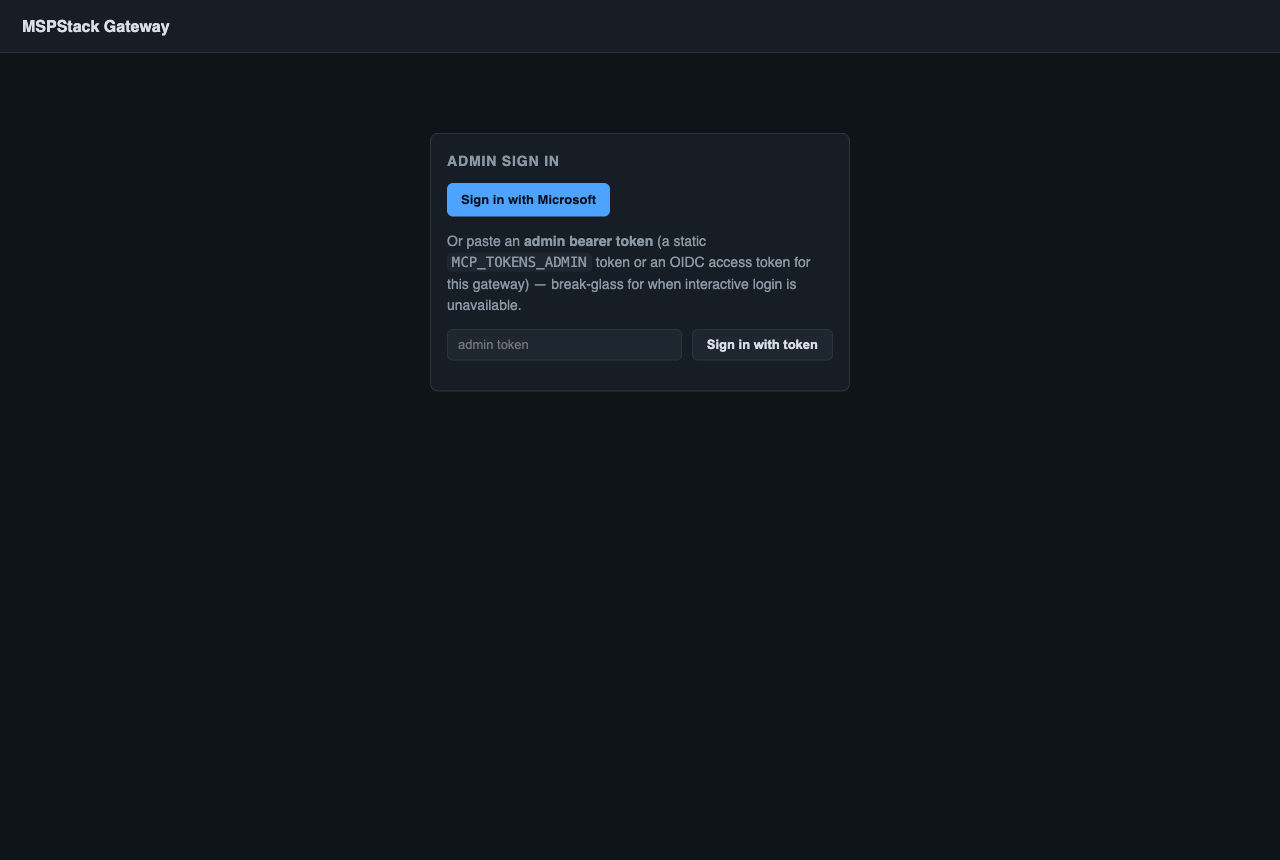
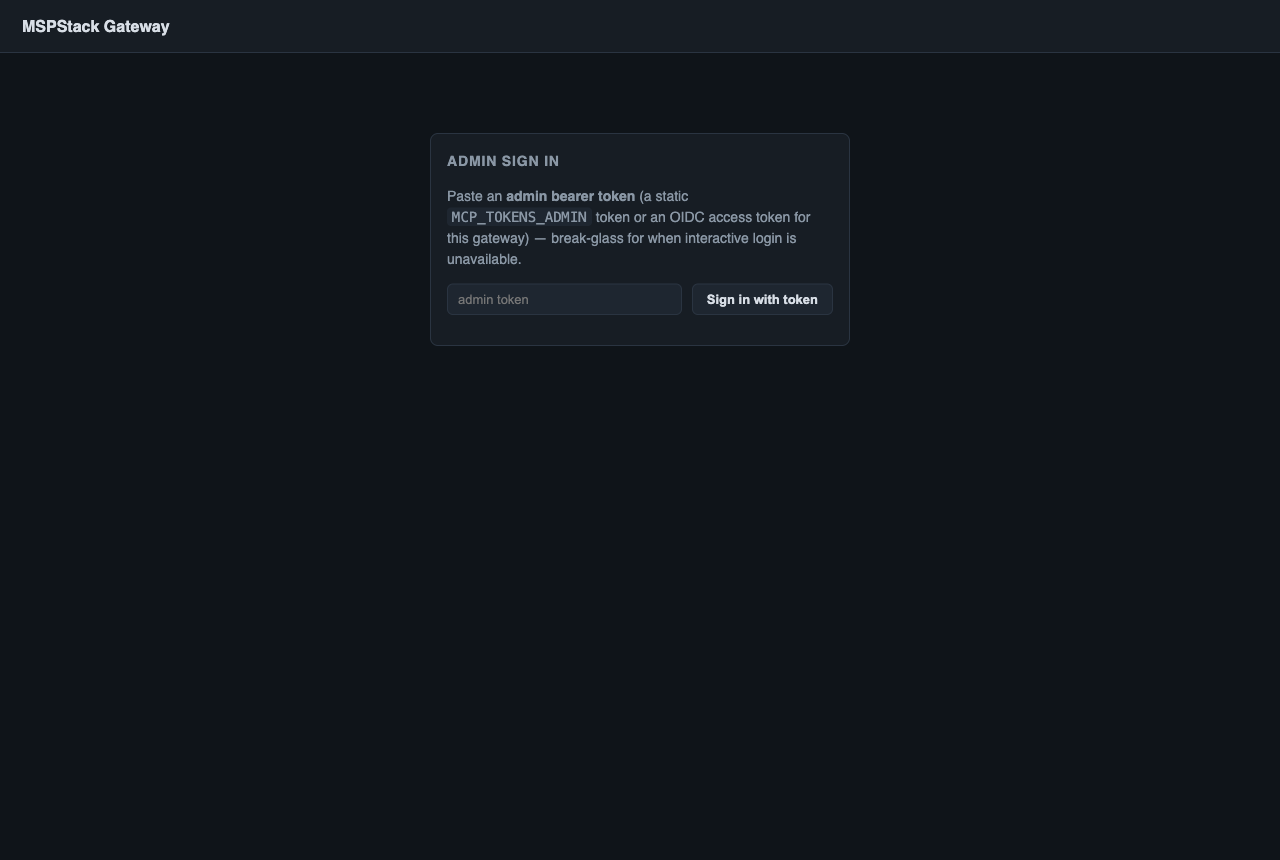
admin: show the Microsoft button only when interactive login exists
Same /health-driven gating me.html already has — on token-only
deployments the sign-in panel no longer renders a "Sign in with
Microsoft" button that would 404 on /auth/login. Copy adjusted so the
token paragraph reads standalone; UI guide screenshot and note updated.

Changed region(s): [[0.3438, 0.2116, 0.6562, 0.3628], [0.5312, 0.393, 0.6562, 0.4233], [0.3438, 0.393, 0.4375, 0.4233]]

diff --git a/packages/gateway/public/admin.html b/packages/gateway/public/admin.html
@@ -71,10 +71,10 @@
 <div id="login" class="panel section">
   <section class="panel">
     <h2>Admin sign in</h2>
-    <div class="row">
+    <div class="row hidden" id="oidc-row">
       <a class="btn" id="oidc-btn" href="/auth/login?returnTo=/admin">Sign in with Microsoft</a>
     </div>
-    <p class="muted">Or paste an <b>admin bearer token</b> (a static <code>MCP_TOKENS_ADMIN</code> token or an OIDC access token for this gateway) — break-glass for when interactive login is unavailable.</p>
+    <p class="muted">Paste an <b>admin bearer token</b> (a static <code>MCP_TOKENS_ADMIN</code> token or an OIDC access token for this gateway) — break-glass for when interactive login is unavailable.</p>
     <div class="row">
       <input id="token-input" type="password" placeholder="admin token" style="flex:1">
       <button class="btn secondary" id="login-btn">Sign in with token</button>
@@ -619,6 +619,11 @@ const RENDER = { status: renderStatus, upstreams: renderUpstreams, tools: render
   roles: renderRoles, users: renderUsers, secrets: renderSecrets };
 
 async function boot() {
+  // Show the Microsoft button only when interactive login actually exists —
+  // /health reports it; on failure keep it hidden and rely on the token box.
+  fetch("/health").then(r => r.json())
+    .then(h => $("#oidc-row").classList.toggle("hidden", !h.login))
+    .catch(() => {});
   if (TOKEN) { login(TOKEN); return; }
   // No pasted token — try an existing cookie session (Sign in with Microsoft).
   try {

diff --git a/docs/ui-guide.md b/docs/ui-guide.md
@@ -38,10 +38,11 @@ credentials are keyed by them.
 
 ## `/admin` — operator console
 
-![Admin sign-in](img/admin-signin.png)
+![Admin sign-in on a token-only deployment](img/admin-signin.png)
 
-> The Microsoft button is always rendered here; on a deployment without
-> interactive login just ignore it and paste an admin token.
+As on `/me`, the Microsoft button appears only when interactive login is
+configured (the page checks `/health`); on a token-only deployment you get just
+the token box, shown above.
 
 ### Status
 
